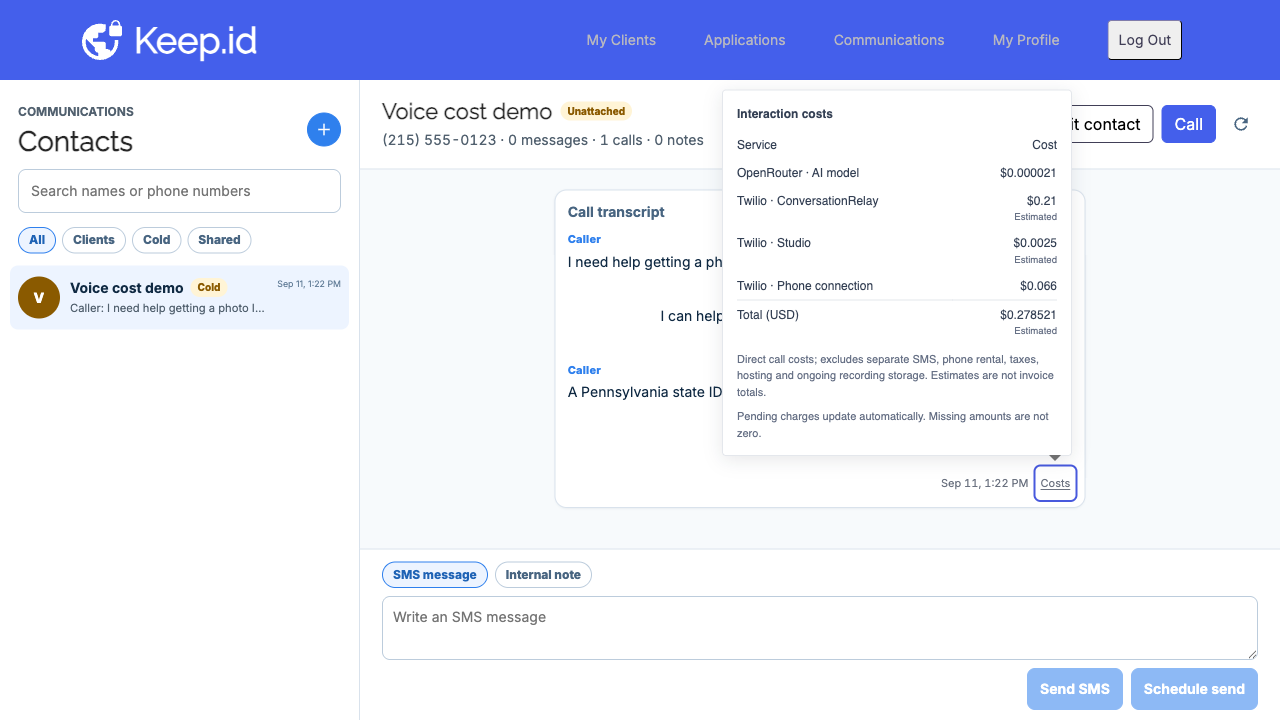
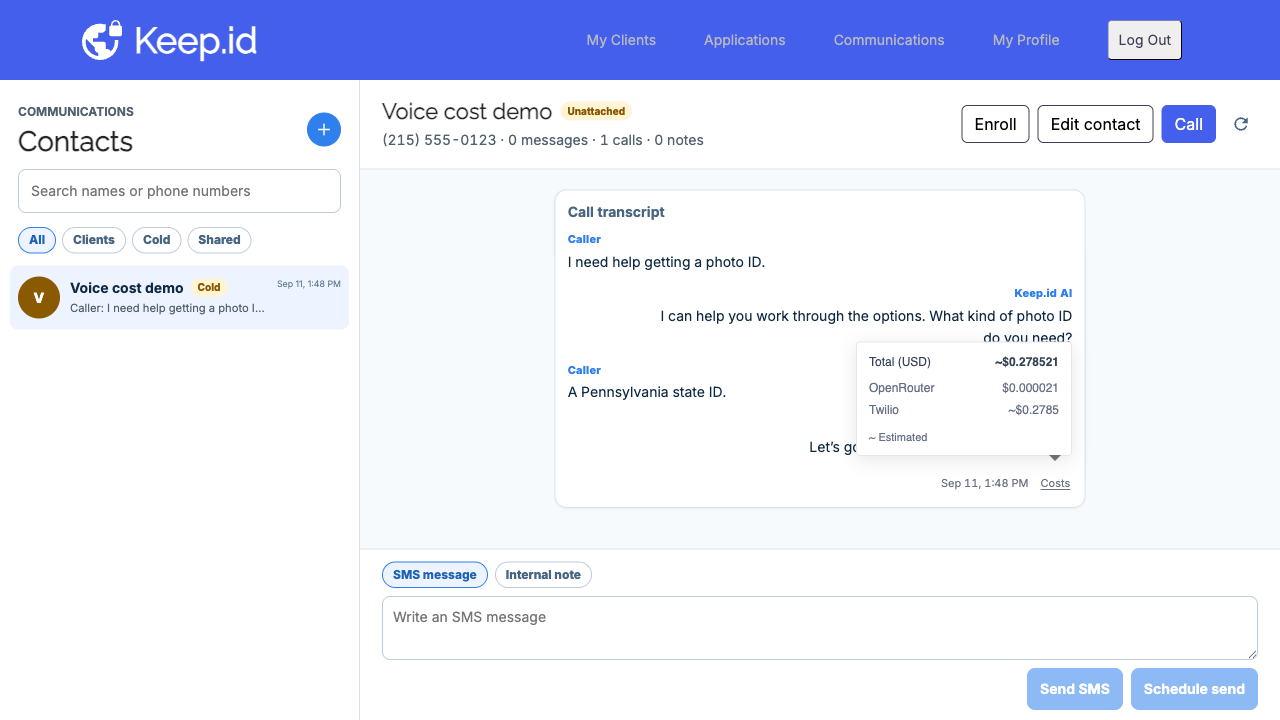
Simplify call cost tooltip to compact provider totals

diff --git a/src/components/Communications/CallCosts.tsx b/src/components/Communications/CallCosts.tsx
@@ -3,15 +3,6 @@ import React, { useEffect, useState } from 'react';
 
 import { getInteractionCosts, InteractionCosts } from './communicationsApi';
 
-const categoryNames: Record<string, string> = {
-  TELEPHONY: 'Phone connection',
-  CONVERSATION_RELAY: 'ConversationRelay',
-  STUDIO: 'Studio',
-  MODEL: 'AI model',
-  RECORDING: 'Recording',
-  TRANSCRIPTION: 'Transcription',
-};
-
 function money(amount: number | null, currency: string) {
   if (amount === null) return 'Pending';
   return new Intl.NumberFormat('en-US', {
@@ -20,13 +11,13 @@ function money(amount: number | null, currency: string) {
 }
 
 export function CostBreakdown({ costs }: { costs: InteractionCosts }) {
-  if (costs.items.length === 0) return <p>No cost data is available for this call.</p>;
+  if (costs.items.length === 0) return <span>No cost data available.</span>;
   const groups = new Map<string, { label: string; currency: string; amount: number;
     hasAmount: boolean; pending: boolean; unavailable: boolean; estimated: boolean }>();
   costs.items.forEach((line) => {
-    const key = `${line.provider}-${line.category}-${line.currency}`;
+    const key = `${line.provider}-${line.currency}`;
     const group = groups.get(key) || {
-      label: `${line.provider === 'TWILIO' ? 'Twilio' : 'OpenRouter'} · ${categoryNames[line.category] || line.category}`,
+      label: line.provider === 'TWILIO' ? 'Twilio' : 'OpenRouter',
       currency: line.currency,
       amount: 0,
       hasAmount: false,
@@ -40,35 +31,39 @@ export function CostBreakdown({ costs }: { costs: InteractionCosts }) {
     group.estimated ||= line.status === 'ESTIMATED';
     groups.set(key, group);
   });
+  const estimated = costs.items.some((line) => line.status === 'ESTIMATED');
+  const pending = costs.items.some((line) => line.status === 'PENDING');
+  const unavailable = costs.items.some((line) => line.status === 'UNAVAILABLE');
+  const notes = [
+    estimated && '~ Estimated',
+    pending && 'Some charges pending',
+    unavailable && 'Some charges unavailable',
+  ].filter(Boolean);
+  const multipleCurrencies = new Set(costs.items.map((line) => line.currency)).size > 1;
   return (
     <div className="call-cost-breakdown">
-      <strong>Interaction costs</strong>
-      <table aria-label="Interaction cost breakdown">
-        <thead><tr><th scope="col">Service</th><th scope="col">Cost</th></tr></thead>
-        <tbody>
-          {[...groups.entries()].map(([key, group]) => (
-            <tr key={key}>
-              <th scope="row">{group.label}</th>
-              <td>
-                {group.hasAmount && money(group.amount, group.currency)}
-                {!group.hasAmount && (group.unavailable ? 'Unavailable' : 'Pending')}
-                {(group.hasAmount && (group.pending || group.unavailable)) && <small>Partial</small>}
-                {(group.hasAmount && !group.pending && !group.unavailable && group.estimated) && <small>Estimated</small>}
-              </td>
-            </tr>
-          ))}
-        </tbody>
-        <tfoot>
-          {costs.totals.map((total) => (
-            <tr key={total.currency}>
-              <th scope="row">{total.status === 'PARTIAL' ? 'Known subtotal' : 'Total'} ({total.currency})</th>
-              <td>{total.amount === null ? 'Not available' : money(total.amount, total.currency)}<small>{total.status.toLowerCase()}</small></td>
-            </tr>
-          ))}
-        </tfoot>
-      </table>
-      <p>{costs.scope}</p>
-      <p>Pending charges update automatically. Missing amounts are not zero.</p>
+      <dl>
+        {costs.totals.map((total) => (
+          <div className="call-cost-total" key={total.currency}>
+            <dt>{total.status === 'PARTIAL' ? 'Subtotal' : 'Total'} ({total.currency})</dt>
+            <dd>
+              {total.amount !== null && costs.items.some((line) => line.currency === total.currency && line.status === 'ESTIMATED') && '~'}
+              {total.amount === null ? 'Unavailable' : money(total.amount, total.currency)}
+            </dd>
+          </div>
+        ))}
+        {[...groups.entries()].map(([key, group]) => (
+          <div className="call-cost-provider" key={key}>
+            <dt>{group.label}{multipleCurrencies && ` (${group.currency})`}</dt>
+            <dd>
+              {group.hasAmount && group.estimated && '~'}
+              {group.hasAmount && money(group.amount, group.currency)}
+              {!group.hasAmount && (group.pending ? 'Pending' : 'Unavailable')}
+            </dd>
+          </div>
+        ))}
+      </dl>
+      {notes.length > 0 && <p>{notes.join(' · ')}</p>}
     </div>
   );
 }

diff --git a/src/components/Communications/CallCosts.test.tsx b/src/components/Communications/CallCosts.test.tsx
@@ -23,15 +23,18 @@ const sample: InteractionCosts = {
 describe('CallCosts', () => {
   it('distinguishes partial totals, estimates, pending charges and fractional cents', () => {
     render(<CostBreakdown costs={sample} />);
-    expect(screen.getByText('Known subtotal (USD)')).toBeInTheDocument();
+    expect(screen.getByText('Subtotal (USD)')).toBeInTheDocument();
     expect(screen.getByText('$0.000021')).toBeInTheDocument();
-    expect(screen.getByText('Estimated')).toBeInTheDocument();
-    expect(screen.getByText('Pending')).toBeInTheDocument();
+    expect(screen.getByText('~ Estimated · Some charges pending')).toBeInTheDocument();
+    expect(screen.getByText('Twilio')).toBeInTheDocument();
+    expect(screen.getByText('OpenRouter')).toBeInTheDocument();
+    expect(screen.queryByRole('table')).not.toBeInTheDocument();
+    expect(screen.queryByText(sample.scope)).not.toBeInTheDocument();
     expect(screen.queryByText('$0.00')).not.toBeInTheDocument();
   });
   it('does not fabricate a zero for historical calls without data', () => {
     render(<CostBreakdown costs={{ ...sample, items: [], totals: [] }} />);
-    expect(screen.getByText('No cost data is available for this call.')).toBeInTheDocument();
+    expect(screen.getByText('No cost data available.')).toBeInTheDocument();
     expect(screen.queryByText('$0.00')).not.toBeInTheDocument();
   });
   it('loads on tap, not on transcript render, and closes with Escape', async () => {
@@ -40,7 +43,7 @@ describe('CallCosts', () => {
     expect(getInteractionCosts).not.toHaveBeenCalled();
     const button = screen.getByRole('button', { name: 'View call costs' });
     fireEvent.click(button);
-    expect(await screen.findByText('Interaction costs')).toBeInTheDocument();
+    expect(await screen.findByText('Subtotal (USD)')).toBeInTheDocument();
     expect(getInteractionCosts).toHaveBeenCalledWith('call-one', expect.any(AbortSignal));
     fireEvent.keyDown(button, { key: 'Escape' });
     expect(button).toHaveAttribute('aria-expanded', 'false');
@@ -50,5 +53,35 @@ describe('CallCosts', () => {
     render(<CallCosts callId="call-one" />);
     fireEvent.click(screen.getByRole('button', { name: 'View call costs' }));
     expect(await screen.findByText('Costs could not be loaded. Reopen to retry.')).toBeInTheDocument();
+  });
+  it('combines categories into provider rows and omits notes for final charges', () => {
+    render(<CostBreakdown costs={{ ...sample,
+      items: [
+        { ...sample.items[0], amount: 0.05, status: 'FINAL' },
+        { ...sample.items[1], amount: 0.2, status: 'FINAL' },
+        sample.items[2],
+      ],
+      totals: [{ currency: 'USD', amount: 0.250021, status: 'FINAL' }],
+    }}
+    />);
+    expect(screen.getAllByText('Twilio')).toHaveLength(1);
+    expect(screen.getByText('$0.25')).toBeInTheDocument();
+    expect(screen.getByText('Total (USD)')).toBeInTheDocument();
+    expect(screen.queryByText(/Estimated|pending|unavailable/)).not.toBeInTheDocument();
+  });
+  it('keeps currencies separate and unknown amounts distinct from zero', () => {
+    render(<CostBreakdown costs={{ ...sample,
+      items: [sample.items[0], { ...sample.items[1], amount: null, currency: 'EUR', status: 'UNAVAILABLE' }],
+      totals: [
+        { currency: 'USD', amount: null, status: 'PARTIAL' },
+        { currency: 'EUR', amount: null, status: 'PARTIAL' },
+      ],
+    }}
+    />);
+    expect(screen.getByText('Twilio (USD)')).toBeInTheDocument();
+    expect(screen.getByText('Twilio (EUR)')).toBeInTheDocument();
+    expect(screen.getByText('Pending')).toBeInTheDocument();
+    expect(screen.getAllByText('Unavailable')).toHaveLength(3);
+    expect(screen.queryByText('$0.00')).not.toBeInTheDocument();
   });
 });

diff --git a/src/components/Communications/communications.css b/src/components/Communications/communications.css
@@ -1946,43 +1946,37 @@ body:has(.communications-shell),
   color: #344054;
   border: 1px solid #e4e7ec;
   box-shadow: 0 4px 18px #1018281a;
-  padding: 14px;
-  max-width: min(350px, calc(100vw - 40px));
+  padding: 10px 12px;
+  max-width: min(230px, calc(100vw - 40px));
   font-size: 12px;
   line-height: 1.5;
 }
 
-.call-cost-breakdown table {
-  width: 100%;
-  border-collapse: collapse;
-  margin: 8px 0;
+.call-cost-breakdown dl {
+  min-width: 190px;
+  margin: 0;
 }
 
-.call-cost-breakdown th,
-.call-cost-breakdown td {
-  padding: 5px 0;
-  text-align: left;
-  vertical-align: top;
-  font-weight: 400;
+.call-cost-breakdown dl > div {
+  display: flex;
+  justify-content: space-between;
+  gap: 16px;
 }
 
-.call-cost-breakdown td,
-.call-cost-breakdown thead th:last-child {
-  text-align: right;
-  padding-left: 12px;
+.call-cost-breakdown dd {
+  margin: 0;
   white-space: nowrap;
   font-variant-numeric: tabular-nums;
 }
 
-.call-cost-breakdown small {
-  display: block;
-  color: #667085;
-  text-transform: capitalize;
+.call-cost-total {
+  font-weight: 600;
+  margin-bottom: 6px;
 }
 
-.call-cost-breakdown tfoot {
-  border-top: 1px solid #e4e7ec;
-  font-weight: 600;
+.call-cost-provider {
+  color: #667085;
+  padding: 2px 0;
 }
 
 .call-cost-breakdown p {

diff --git a/docs/interaction-costs.md b/docs/interaction-costs.md
@@ -4,11 +4,15 @@ A small gray Costs button appears beside the timestamp at the bottom-right of
 each call card. Hover or focus on desktop; tap on mobile. Escape closes it.
 The tooltip fetches the call's stored cost breakdown only when opened and
 refreshes every 30 seconds while open. It never calls Twilio/OpenRouter directly.
+The compact popup shows a total and one row per provider, not billing categories.
+A tilde marks amounts that include estimates; one short note explains estimates
+or missing charges. Fully reported actual costs need no note. The detailed
+backend ledger remains unchanged for reporting and metrics.
 
 Backend prerequisite: `GET /api/communications/calls/{callId}/costs` and the
 server's V41 `interaction_cost` migration. Existing call/message DTOs do not
 change. Deploy the backend first. Calls without historical data show unavailable,
-not zero. Unreported rows show Pending; estimated charges and partial subtotals
+not zero. Unreported providers show Pending; estimated charges and partial subtotals
 are explicitly labeled. Currency totals remain separate; fractional cents are
 shown to six decimal places in the UI (the database stores ten decimal places).
 
